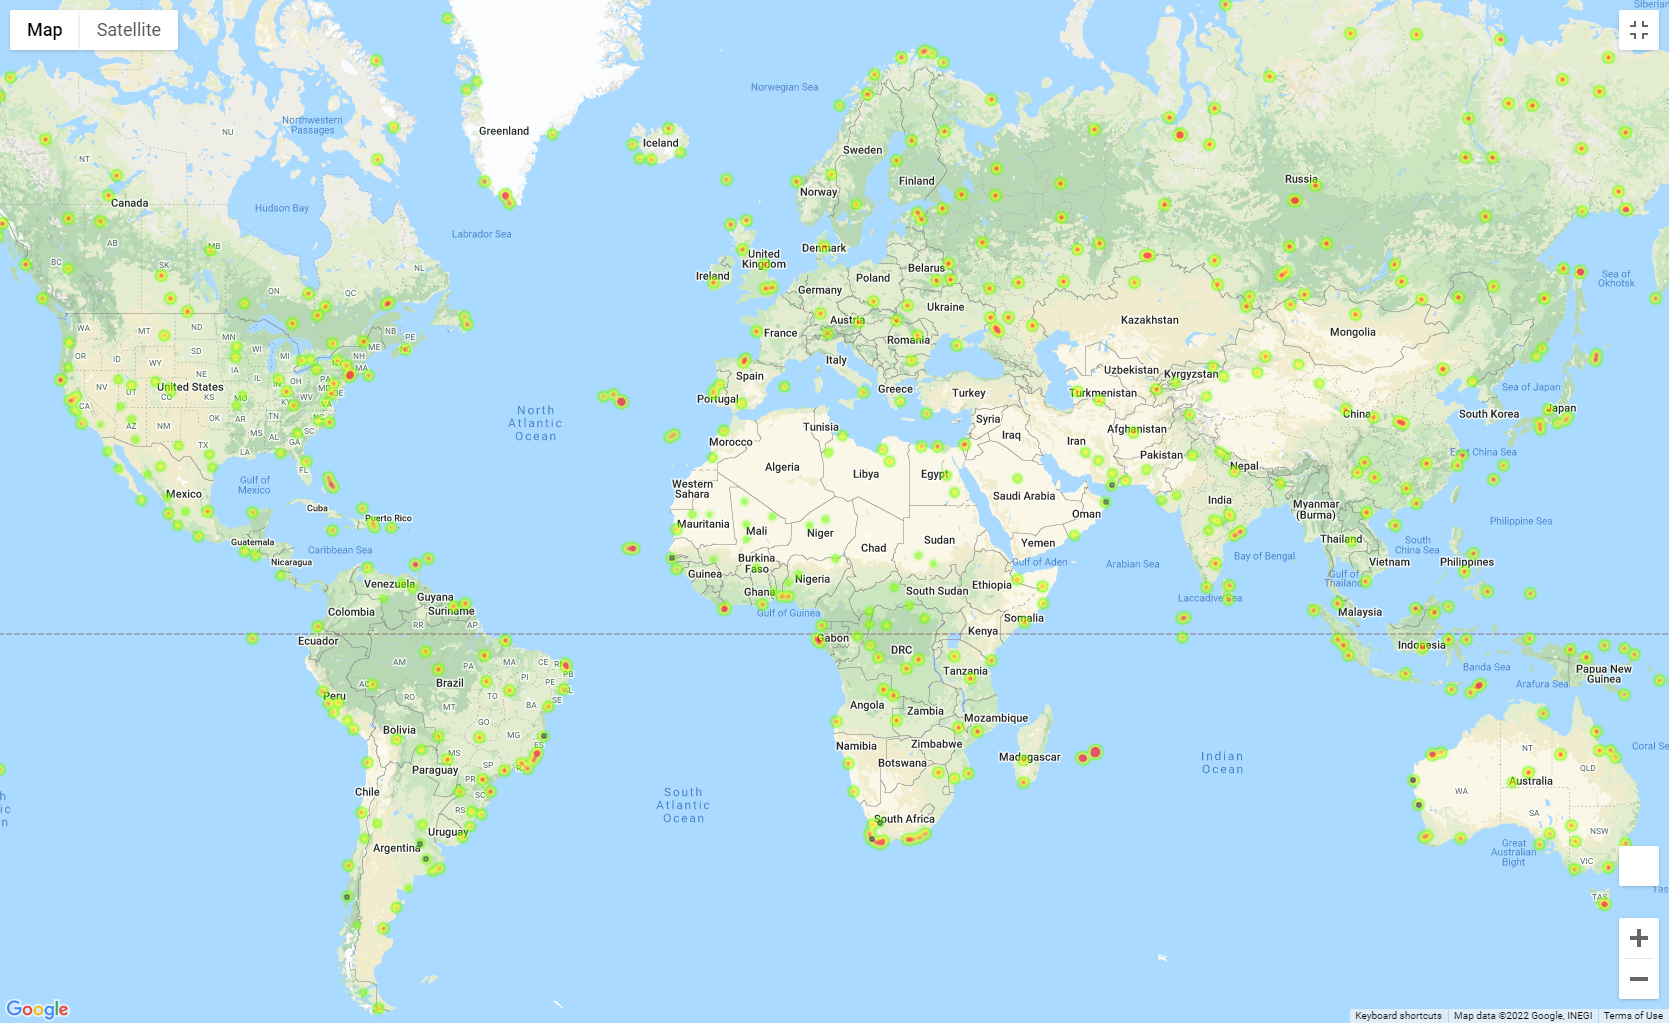
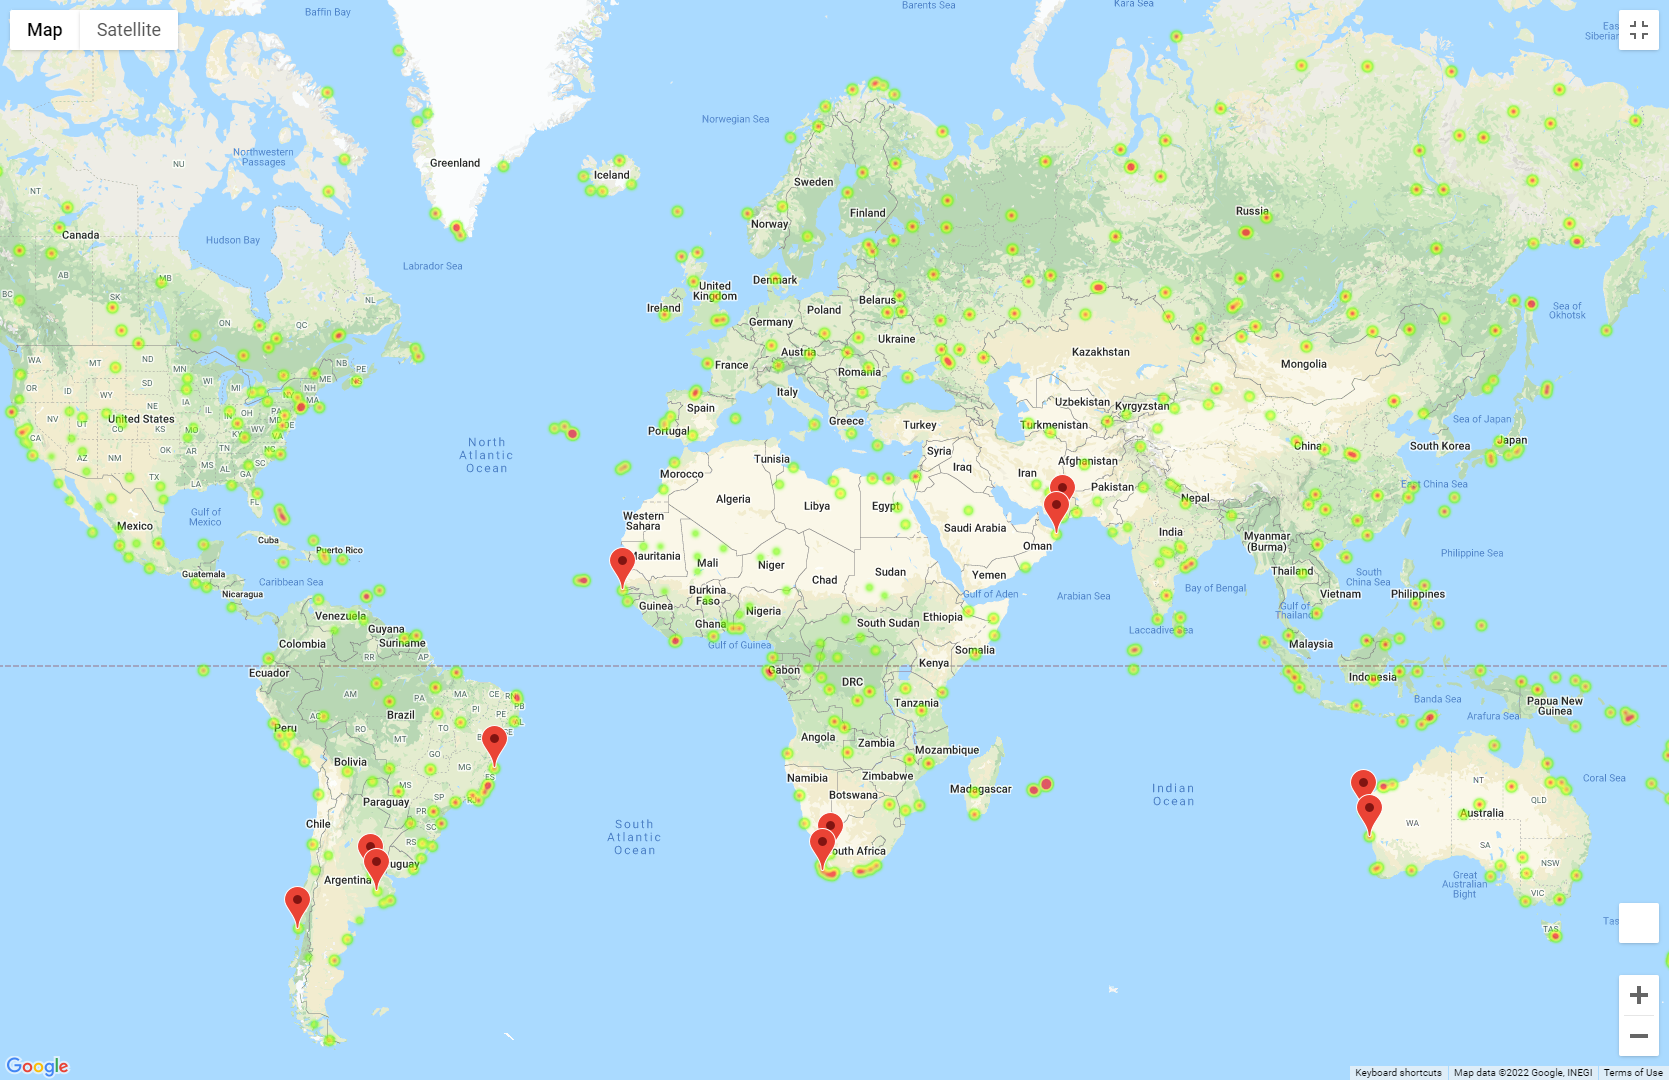
README and heatmap

diff --git a/README.md b/README.md
@@ -6,6 +6,14 @@ Using Open Weather and Google Maps APIs and JSON to access and analyze weather d
 A list of >500 cities was created based on randomly generated longitude and latitude. Data for location coordinates, max temperature, humidity, cloudiness, wind speed, country, and date of access was extracted and analyzed to examine trends based on distance from the equator. Scatterplots were created to examine how latitude (distance from the equator) effects max temperature, humidity, cloudiness, and wind speed. Linear regressions were performed for these parameters for cities both in the northern and southern hemispheres and correlation coefficients were calculated. 
 
 ### **Observations based on the data analysis** 
+The graphs and linear regressions revealed that the strongest correlation to distance from the equator was with the maximum temperature for cities in the northern hemisphere - the further away from the equator, the lower the maximum temperature is likely to be. Interestingly, based on the data, there was no correlation for cities in the southern hemisphere.
 
+Cloudiness of a city did not have any correlation to distance from the equator. Cloudiness, in the northern cities particularly, visually appeared to have the most even distribution across the plot.
+
+Wind speed also did not have any correlation to distance from the equator. Wind speed for the majority of northern cities was below 15 mph, while southern cities largely had a wind speed below 10 mph. 
+
+
+## **VacationPy**
+This section used the data gathered from WeatherPy as well as the jupyter-gmaps and the Google Places API to determine the best vacation cities based on weather. The humidity of the cities in the data set was mapped in a heatmap. Ideal vacation conditions were defined (max temperature between 68 and 80 degrees Fahrenheit, wind speed less than 10 mph, and no clouds!) and cities that matched those conditions were identified. Hotel data for these cities was retrieved using Google Places API and these were mapped on top of the heatmap. 
 
 
